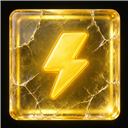
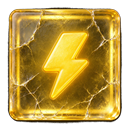
v1.12.7: fix gem transparency - convert to ARGB bitmap before alpha cut (previous resize dropped alpha channel, gems had black bg in game); now all 6 gems truly transparent (corner alpha=0 verified)

Changed region(s): [[0.0, 0.0, 1.0, 1.0]]

diff --git a/js/game/main.js b/js/game/main.js
@@ -49,7 +49,7 @@ if (!ctx) {
 const LOGIC_W = CONFIG.DESIGN.W;      // 750
 const LOGIC_H = CONFIG.DESIGN.H;      // 1334
 const WAVE_DUR = CONFIG.WAVE.seconds; // 40s
-const GAME_VERSION = 'v1.12.6';        // 设置弹层版本信息
+const GAME_VERSION = 'v1.12.7';        // 设置弹层版本信息
 const { SaveManager } = require('../save.js');
 const { WaveDirector } = require('../wave.js');
 const { Match3Controller } = require('../match3.js');
